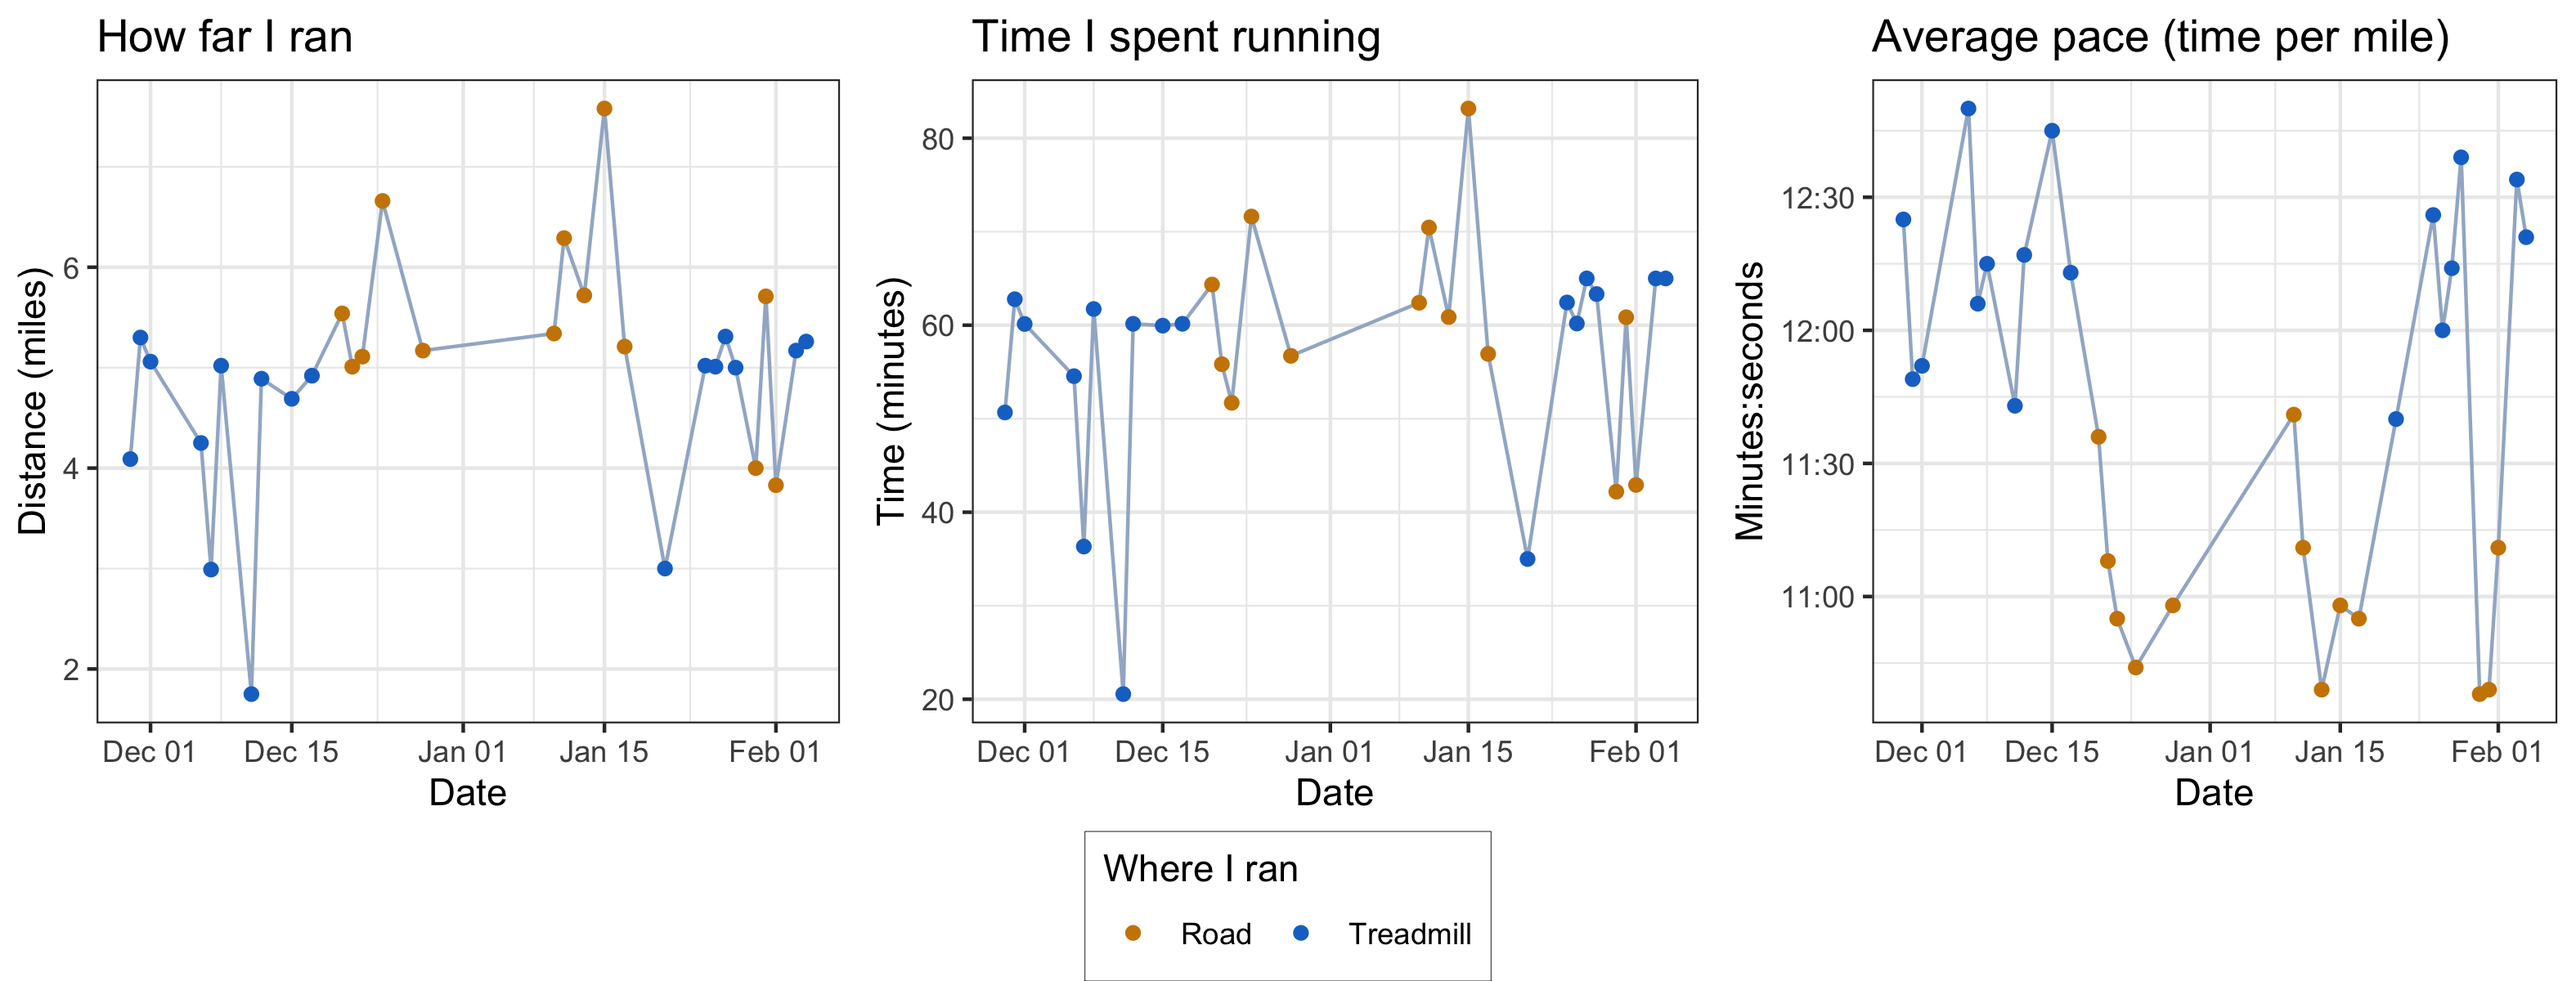
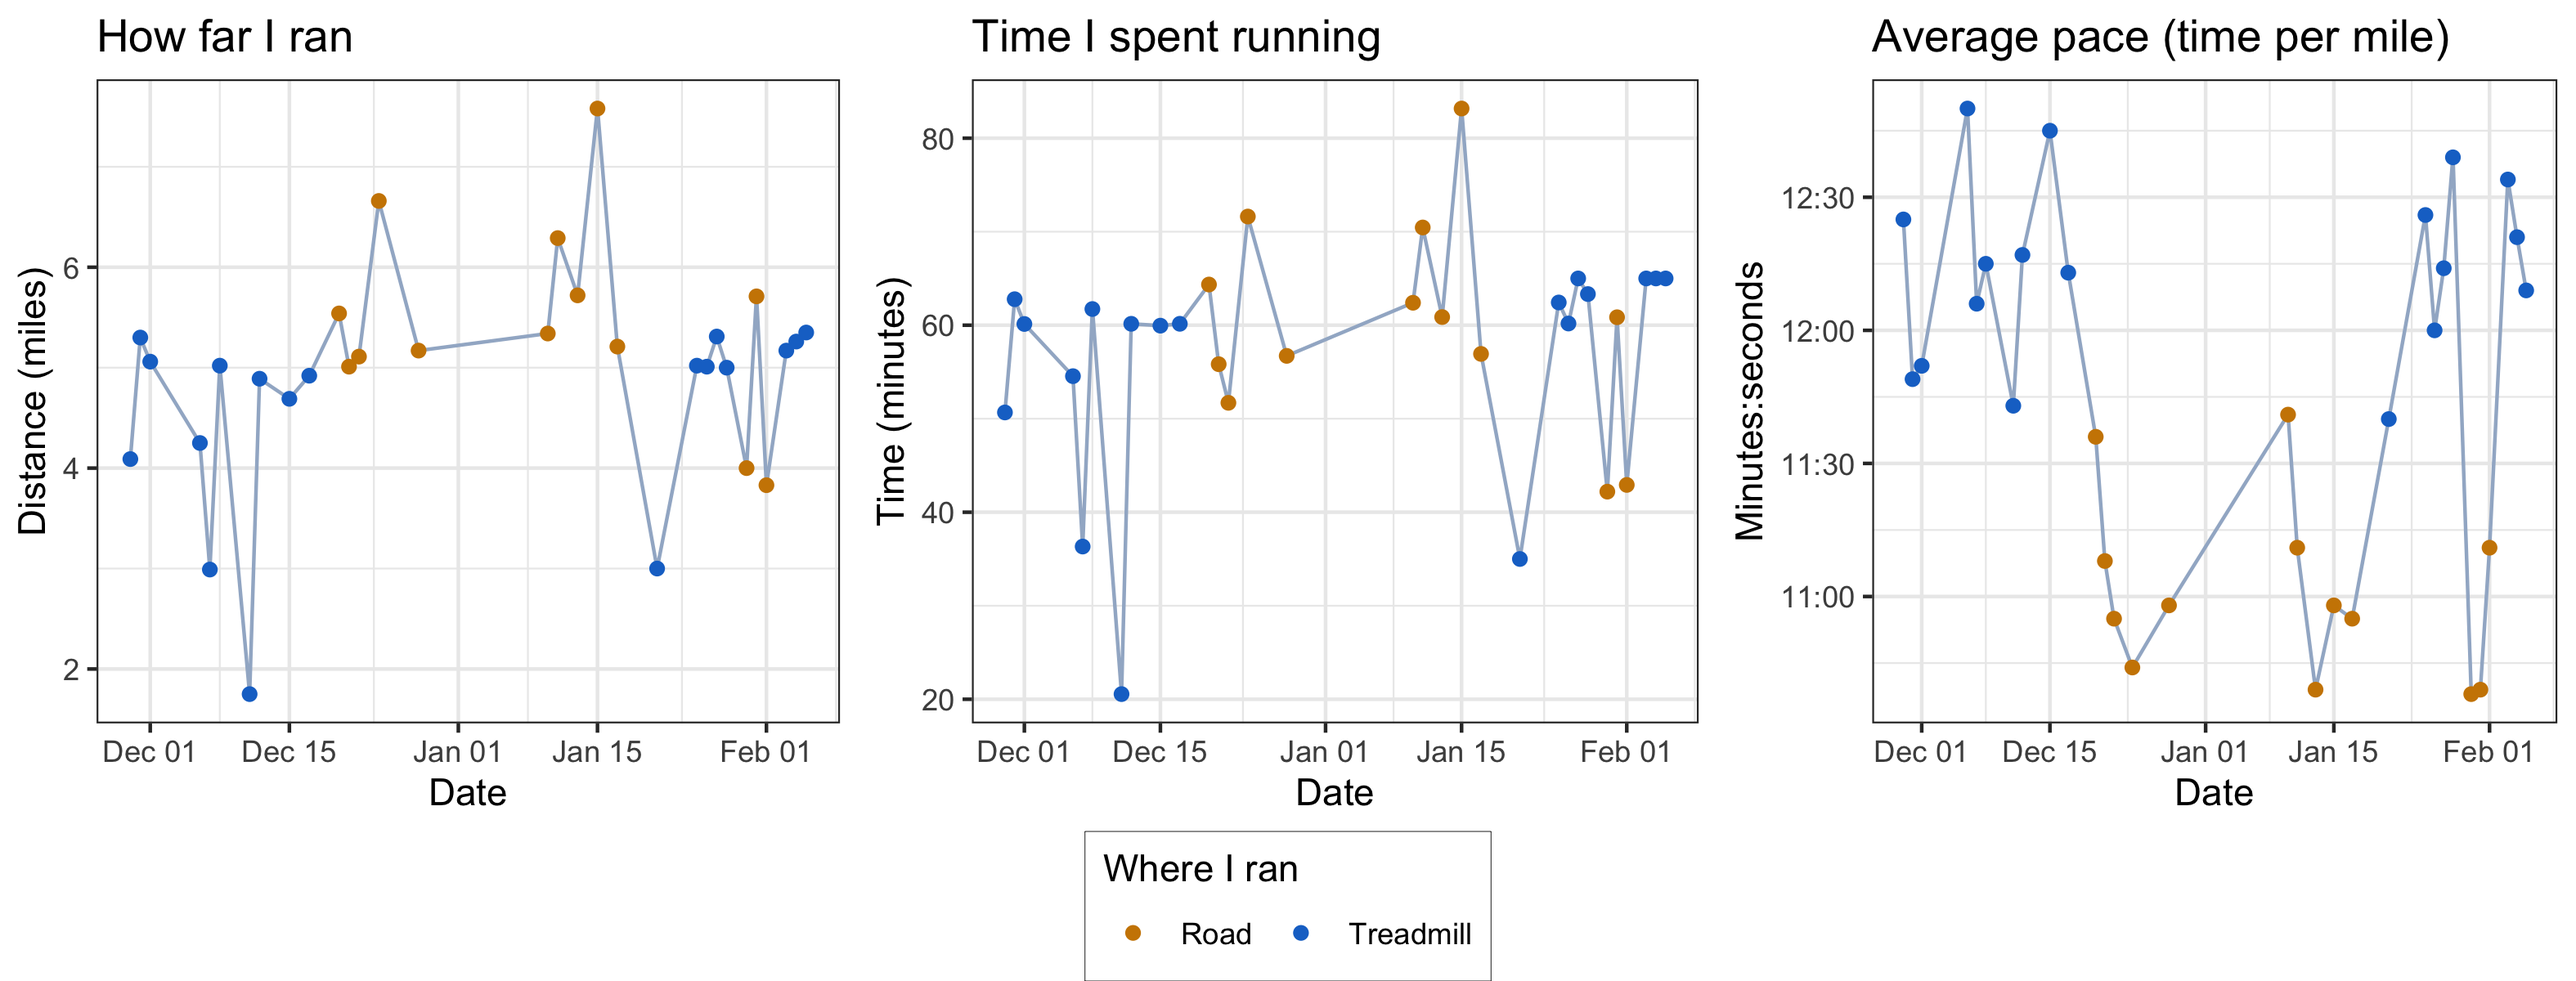
2/5/22

diff --git a/README.md b/README.md
@@ -27,4 +27,4 @@ Total miles since 11/29/21:
 sum(runningData$Miles)
 ```
 
-    ## [1] 147.9
+    ## [1] 153.25
